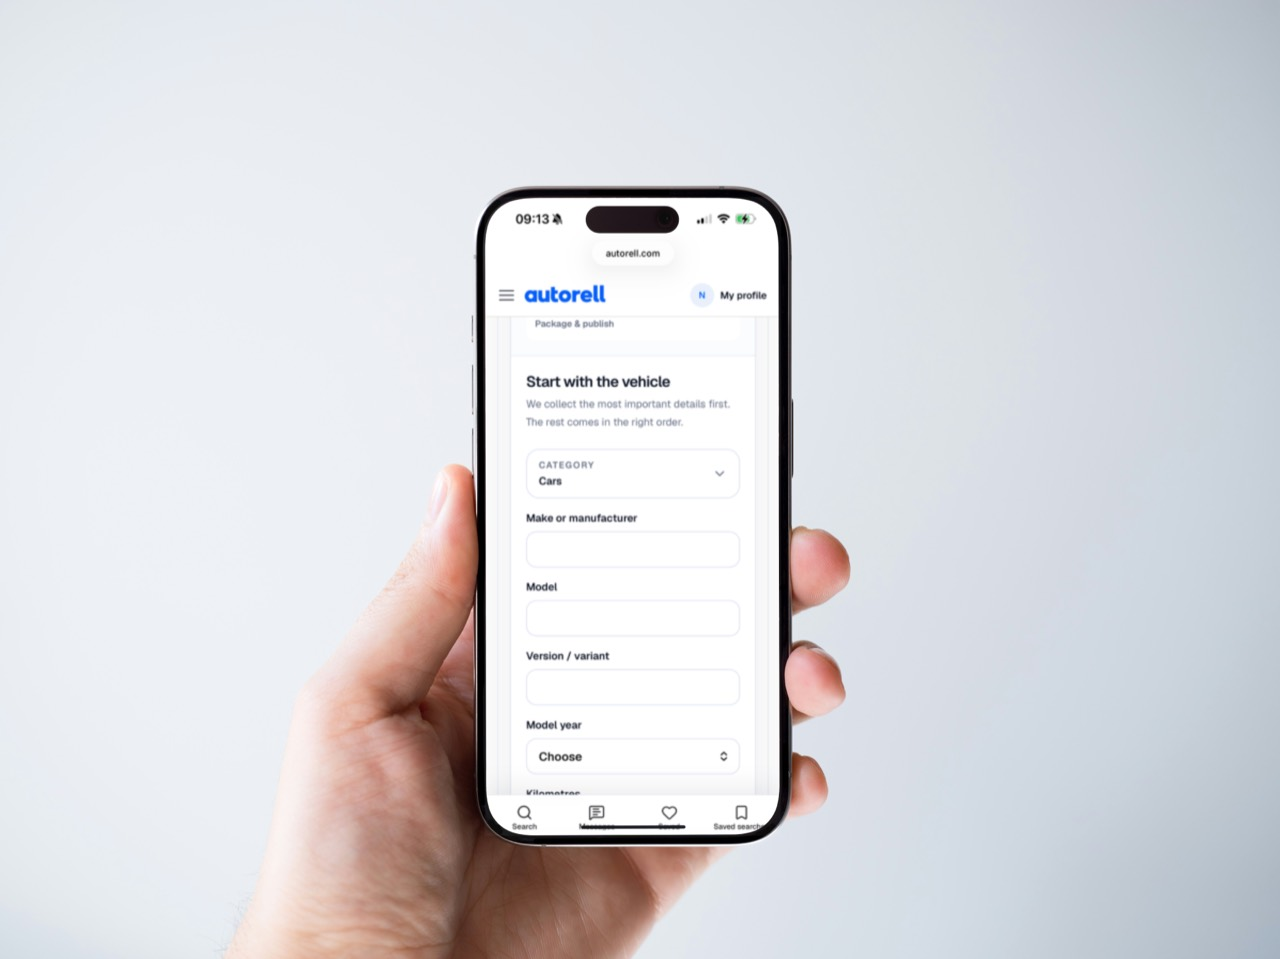
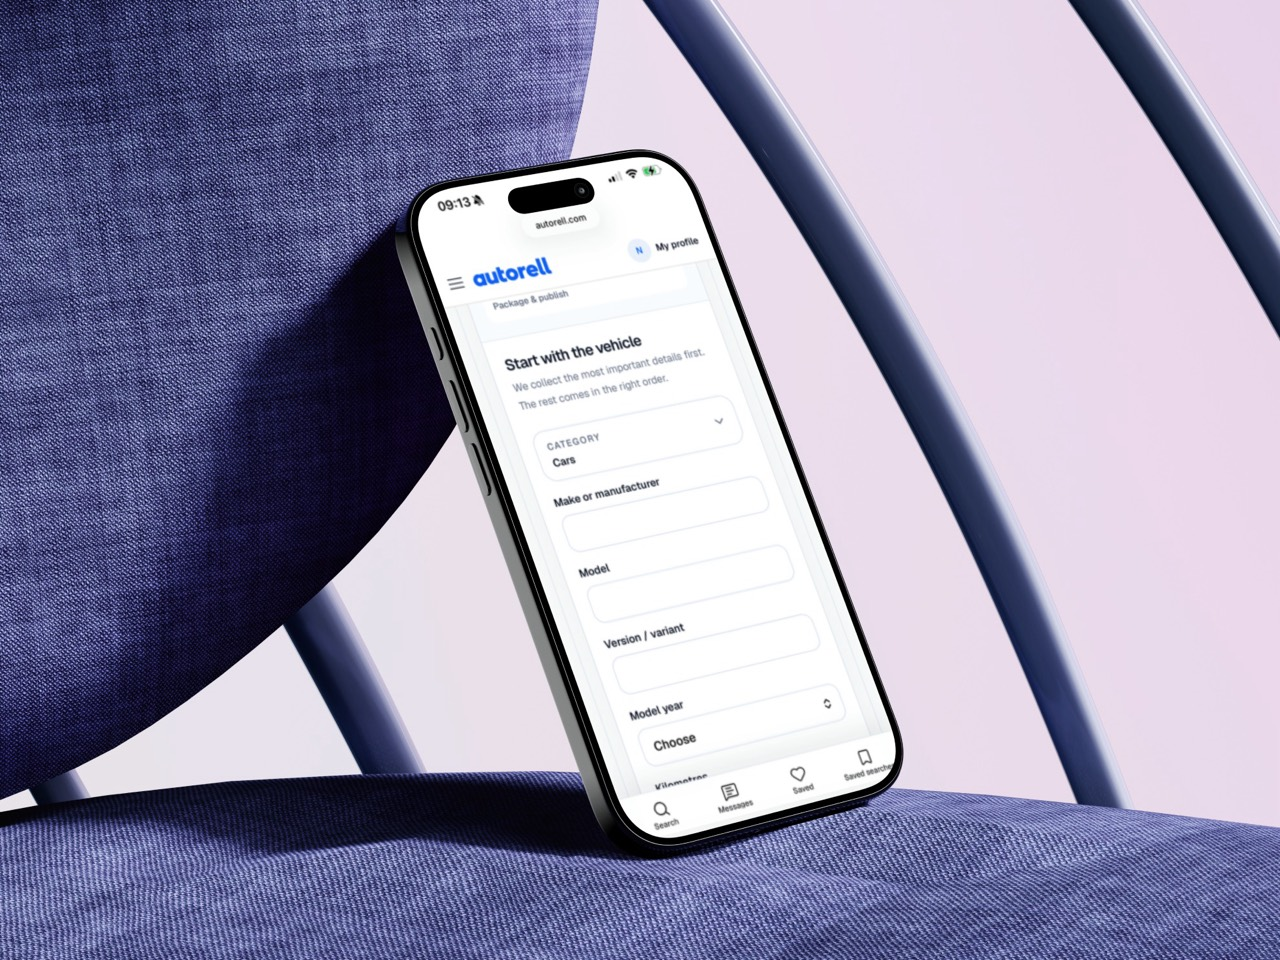
Make pricing hero image cover panel

diff --git a/app/components/PricingPage.tsx b/app/components/PricingPage.tsx
@@ -224,14 +224,15 @@ export default function PricingPage({ locale, market, marketCode }: PricingPageP
                 </Link>
               </div>
             </div>
-            <div className="relative mx-auto h-[230px] w-full max-w-[360px] overflow-hidden rounded-[18px] border border-[#e3eaf4] bg-[#edf2f8] shadow-[0_18px_42px_rgba(16,24,40,.14)] sm:h-[270px] lg:mx-0">
+            <div className="relative mx-auto h-[230px] w-full max-w-[360px] overflow-hidden rounded-[18px] bg-[#edf2f8] shadow-[0_18px_42px_rgba(16,24,40,.16)] sm:h-[270px] lg:mx-0">
               <Image
                 src="/autorell-pricing-mobile-hero.jpg"
                 alt="Autorell mobile listing form"
                 fill
                 priority
+                quality={95}
                 sizes="(min-width: 1024px) 360px, calc(100vw - 40px)"
-                className="object-contain object-center"
+                className="object-cover object-center"
               />
             </div>
           </div>